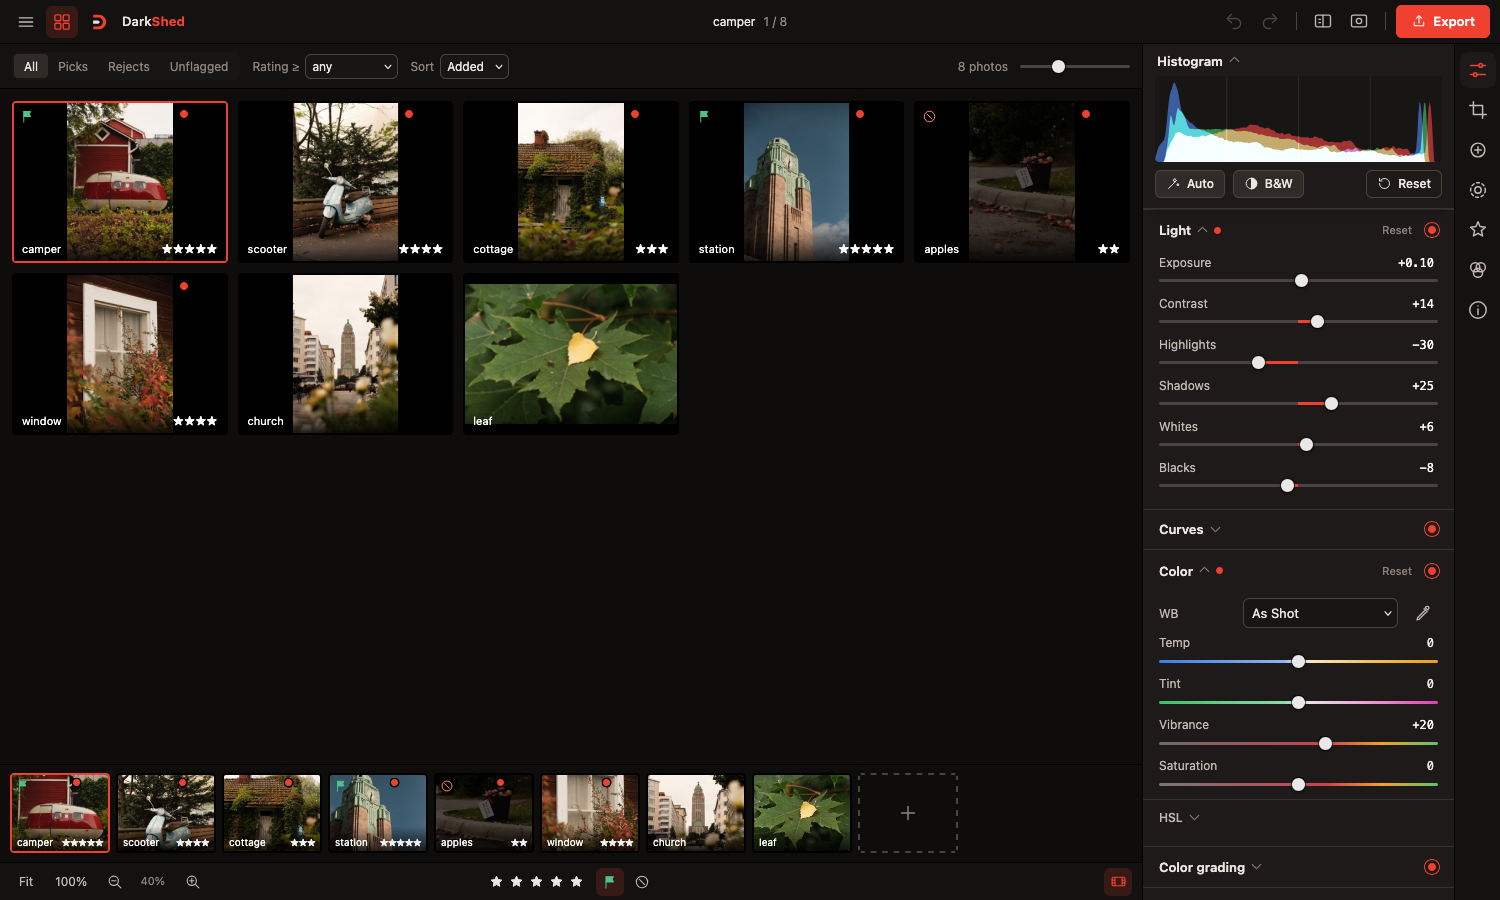
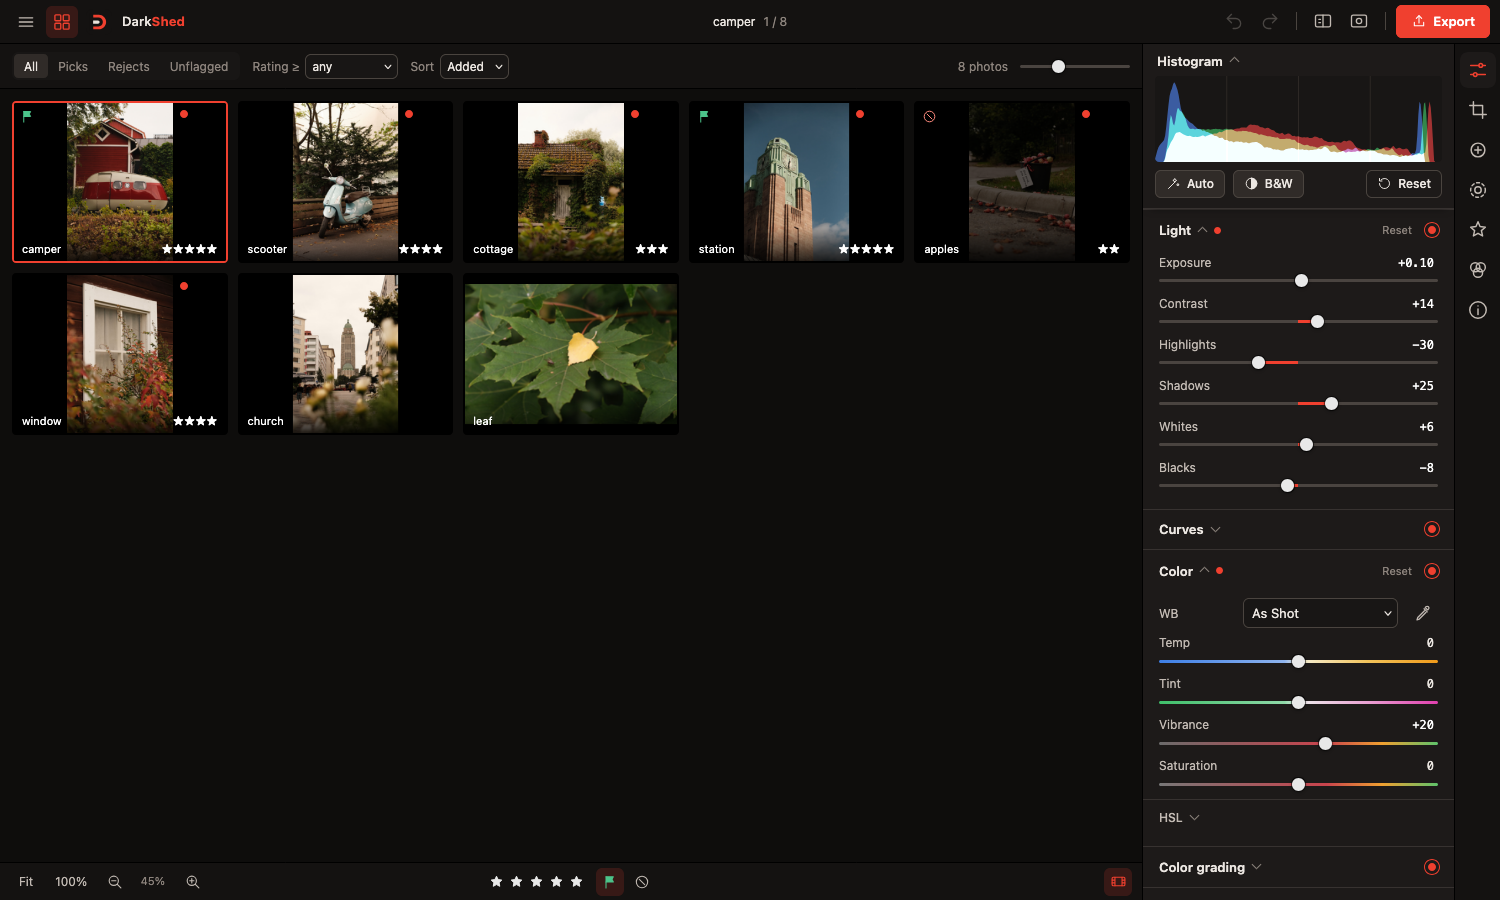
README: grid and keyboard notes; new grid and edit screenshots

Changed region(s): [[0.0, 0.84, 0.5827, 0.9644]]

diff --git a/README.md b/README.md
@@ -50,7 +50,8 @@ The same app on a phone, with a layout built for touch:
 - **RAW profiles:** a Profiles tab (RAW files only) with a preview of each: Standard, Camera Matching (copies the look of the JPEG your camera stored in the file, so it works for any camera), Neutral, Vivid, Landscape and Portrait. RAW photos get a base tone curve fitted to common cameras, so they open with contrast instead of flat.
 - **RAW white balance in Kelvin:** the Temp slider runs 2000-50000 K in steps of 50, and the Daylight, Cloudy, Shade, Tungsten, Fluorescent and Flash presets, Auto and the picker set a real Kelvin from the camera's colour data. JPEGs keep the plain -100 to +100 scale.
 - **Local tools:** crop and straighten, spot removal (heal and clone), masks (linear, radial, brush, luminance and color range, with add, subtract and intersect).
-- **Library:** multiple photos with a filmstrip and a grid for culling (ratings, flags, filters).
+- **Library:** multiple photos with a filmstrip and a grid for culling (ratings, flags, filters). Double-click or double-tap a photo in the grid to open it.
+- **Made for the keyboard on desktop:** one key per tool (E, C, Q, M, L, R, I), press the open tool again to fold its panel away, S toggles the filmstrip, and **Menu → Keyboard shortcuts** lists everything with a search.
 - **Presets:** search, save your own, import `.xmp`, `.lrtemplate` and `.zip` packs and `.cube` LUTs, export as `.xmp`. An Amount slider fades a preset in and out, tapping an applied preset again removes it, and presets replace each other instead of stacking. A few Fujifilm-inspired **Looks** are built in; they keep your exposure and white balance.
 - **Export:** JPEG, PNG, WebP or 16-bit TIFF, with resize, output sharpening, sRGB or Display P3, and batch export as a ZIP.
 - **Safety net:** undo and redo, autosave, and copies of your open photos kept on the device so work survives an app reload. Stored copies clean themselves up (7 days unused, 1 GB cap by default; changeable in Settings).
